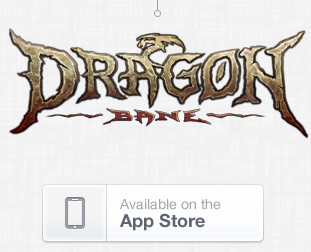
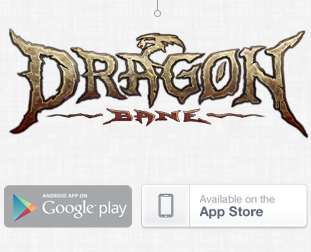
1

Changed region(s): [[0.0, 0.7222, 0.9839, 0.9722], [0.9839, 0.8611, 1.0, 0.8889]]

diff --git a/upload/resources/images/show.css b/upload/resources/images/show.css
@@ -20,7 +20,8 @@ body{ width:100%; background:url(bg3.jpg) repeat #FFF; color:#4A4A4A; font-famil
 
 #main{ width:1004px; height:auto; background:url(bg3.jpg) repeat; padding:65px 0; clear:both; margin:0 auto; overflow:hidden;}
 	
-	#main .pos{ width:940px; height:46px; margin:0 auto; clear:both;}
+	#main .pos{ width:940px; height:46px; margin:0 auto; clear:both; background:url(honor_tit1.jpg) no-repeat;}
+		#main .pos h1 {font-size:18px;line-height:36px;}
 	#main .content{ width:940px; min-height:500px; height:auto!important; height:500px; overflow:visible; background:url(bg4.jpg) 243px 0 repeat-y; margin:0 auto; clear:both;}
 		#main .content .left{ width:265px; height:auto; float:left; overflow:hidden;}
 			#main .content .left div{ width:245px; height:80px; clear:both; overflow:hidden;}

diff --git a/upload/application/views/honor_view.php b/upload/application/views/honor_view.php
@@ -38,7 +38,7 @@
     <?php $i=1; ?>
     <?php foreach($product as $row): ?>
     	<div class="pos">
-        	<img src="<?php echo base_url('resources/images/honor_tit1.jpg'); ?>" />
+        	<h1><?php echo $row->product_name; ?></h1>
         </div>
         
         <div class="honor_con">
@@ -68,9 +68,10 @@
             	<img src="<?php echo $row->product_logo_url; ?>" border="0" usemap="#Map<?php echo $i; ?>" />
                 <map name="Map<?php echo $i; ?>" id="Map<?php echo $i; ?>">
                 <?php if(!empty($row->product_ios_download) && !empty($row->product_android_download)): ?>
-                	<area shape="rect" coords="42,185,265,243" href="#" />
+                    <area shape="rect" coords="5,186,132,227" href="<?php echo $row->product_android_download; ?>" />
+                    <area shape="rect" coords="142,185,306,227" href="<?php echo $row->product_ios_download; ?>" />
                 <?php else: ?>
-                	<area shape="rect" coords="42,185,265,243" href="#" />
+                	<area shape="rect" coords="42,185,265,243" href="<?php if(!empty($row->product_ios_download)) echo $row->product_ios_download; else $row->product_android_download; ?>" />
                 <?php endif; ?>
                 </map>
             </div>
